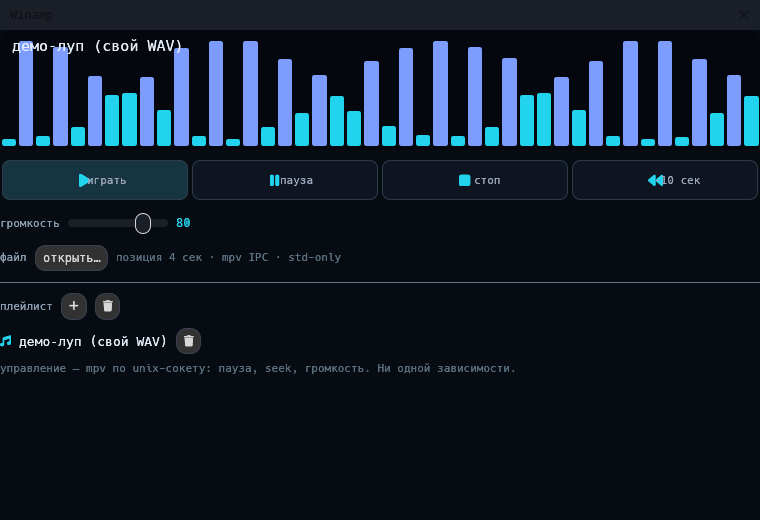
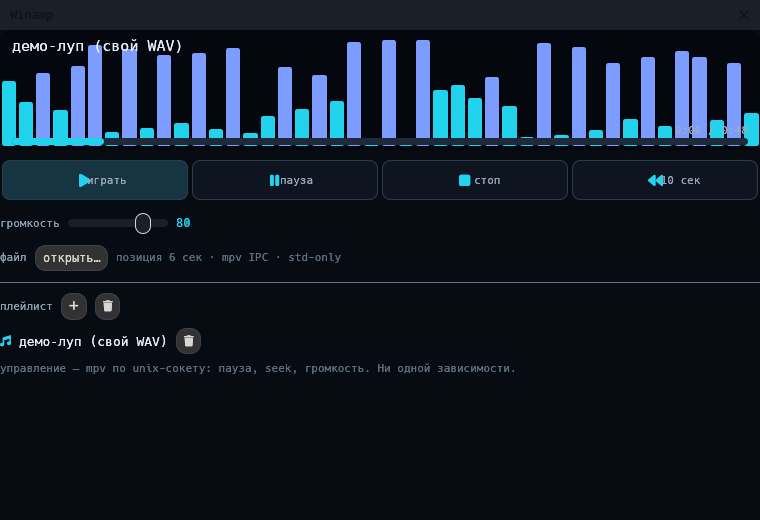
winamp: громкость ползунка уходит в mpv, полоса прогресса и таймкод из duration

Changed region(s): [[0.0, 0.0615, 0.9987, 0.3077], [0.9382, 0.1231, 0.9987, 0.1538], [0.9684, 0.1846, 0.9987, 0.2154]]

diff --git a/CHANGELOG.md b/CHANGELOG.md
@@ -3,6 +3,17 @@
 Формат — по мотивам [Keep a Changelog](https://keepachangelog.com/ru/1.1.0/).
 Версии — по [SemVer](https://semver.org/lang/ru/): модель и CLI обратно совместимы внутри мажорной версии.
 
+## [0.2.4] — 2026-11-15
+
+Плеер догоняет привычный: громкость и прогресс в самом воспроизведении.
+
+### Добавлено
+- **Громкость ползунка уходит в mpv**: ползунок модели сравнивается со своим полем `last_volume`
+  (своё `rust field`), и при изменении отправляется `set_property volume`. Проверено по сокету:
+  протяжка ползунка 80 → 65 совпала с `volume` в mpv.
+- **Полоса прогресса и таймкод в визуализаторе**: `duration` спрашивается у mpv, снизу экрана рисуется
+  заполненная полоса (доля `pos/duration`) и подпись `0:06 / 0:48`. Проверено кадром.
+
 ## [0.2.3] — 2026-11-15
 
 Демка уровня Winamp: настоящий плеер, у которого mpv делает звук, а всё остальное — модель.
